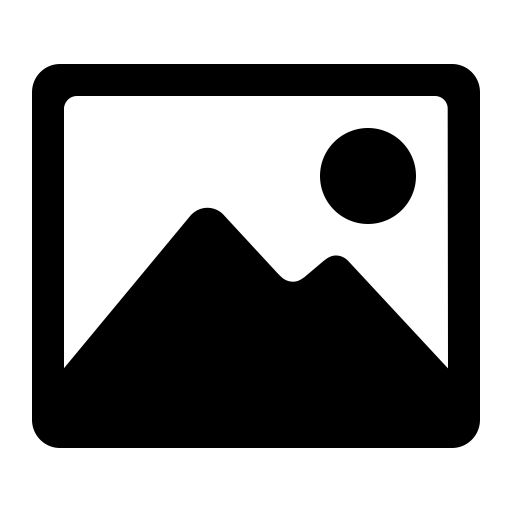
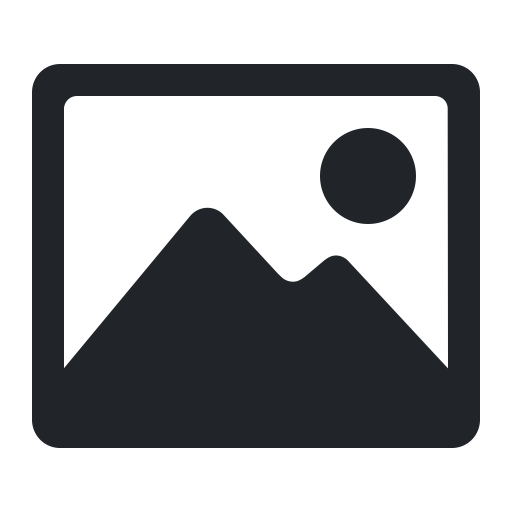
pre courses

diff --git a/education.js b/education.js
@@ -17,83 +17,90 @@ let courseWork = (
 );
 
 let current = (
-  <section>
     <div class="container">
-    <h2>Current College Classes</h2>
+    <h2>Current College Classes (Summer)</h2>
     <h4>
     Programming:<br/>
-    <span class="badge badge-light">Analysis of Algorithms</span>
-    <span class="badge badge-light">Computer Architecture</span>
-    <span class="badge badge-light">Computer Networks</span>
-    <span class="badge badge-light">Operating Systems</span>
-    <span class="badge badge-light">Website development</span>
+    <span class="badge">Software Engineering</span>
     </h4>
+    <h5>
+    <ul>
+    <li>item</li>
+    <li>item</li>
+    <li>item</li>
+    <li>item</li>
+    </ul>
+    </h5>
+    <br/><hr/><br/>
     </div>
-  </section>
 );
 
 let currentOnline = (
-  <section>
   <div class="container">
   <h2>Current Online Classes</h2>
   <h4>
   Programming:<br/>
-  <span class="badge badge-light">Web Developer Bootcamp</span>
+  </h4>
+  <h5>
+  <span class="badge">Web Developer Bootcamp</span>
+  </h5>
   <br/>
   Creativity:<br/>
-  <span class="badge badge-light">Character Art</span>
-  <span class="badge badge-light">Guitar System</span>
-  </h4>
+  <span class="badge">Character Art</span>
+  <span class="badge">Guitar System</span>
+  <br/><hr/><br/>
   </div>
-</section>
 );
 
 let past = (
-  <section>
   <div class="container">
     <h2>Past College Classes</h2>
     <h4>
     Programming:<br/>
-      <span class="badge badge-light">Webpage Authoring</span>
-      <span class="badge badge-light">Python</span>
-      <span class="badge badge-light">Java I &amp; II</span>
-      <span class="badge badge-light font-small-60">C++ I &amp; II</span>
-      <span class="badge badge-light">Perl</span>
-      <span class="badge badge-light font-small-60">Computer Architecture</span>
-      <span class="badge badge-light font-small-50">UNIX/LINUX Operating System</span>
-      <span class="badge badge-light">Programming in C</span>
-      <span class="badge badge-light font-small-60">Discrete Structures</span>
-      <span class="badge badge-light">Computing &amp; Responsibility</span>
-      <span class="badge badge-light">Data Structures &amp; Algorithms</span>
-      <span class="badge badge-light">Programming Language Concepts</span>
+      <span class="badge">Analysis of Algorithms</span>
+      <span class="badge">Computer Architecture</span>
+      <span class="badge">Computer Networks</span>
+      <span class="badge">Operating Systems</span>
+      <span class="badge">Website development</span>
+      <span class="badge">Webpage Authoring</span>
+      <span class="badge">Python</span>
+      <span class="badge">Java I &amp; II</span>
+      <span class="badge font-small-60">C++ I &amp; II</span>
+      <span class="badge">Perl</span>
+      <span class="badge font-small-60">Computer Architecture</span>
+      <span class="badge font-small-50">UNIX/LINUX Operating System</span>
+      <span class="badge">Programming in C</span>
+      <span class="badge font-small-60">Discrete Structures</span>
+      <span class="badge">Computing &amp; Responsibility</span>
+      <span class="badge">Data Structures &amp; Algorithms</span>
+      <span class="badge">Programming Language Concepts</span>
     <br/>
     Math:<br/>
-      <span class="badge badge-light font-small-50">Mathematical Analysis <br/>of Engineering Problems</span>
-      <span class="badge badge-light">Statistics for Sci/Eng</span>
-      <span class="badge badge-light font-small-60">Calculus I &amp; II &amp; III</span>
-      <span class="badge badge-light font-small-70">Differential Equations</span>
-      <span class="badge badge-light">Linear Algebra</span>
-      <span class="badge badge-light">Dynamics</span>
+      <span class="badge font-small-50">Mathematical Analysis <br/>of Engineering Problems</span>
+      <span class="badge">Statistics for Sci/Eng</span>
+      <span class="badge font-small-60">Calculus I &amp; II &amp; III</span>
+      <span class="badge font-small-70">Differential Equations</span>
+      <span class="badge">Linear Algebra</span>
+      <span class="badge">Dynamics</span>
     <br/>
     Science/Physics:<br/>
-      <span class="badge badge-light font-small-50">Physics for Engineers <br/>and Scientists I &amp; II &amp; III)</span>
-      <span class="badge badge-light">Chemistry</span>
-      <span class="badge badge-light">Astronomy</span>
-      <span class="badge badge-light">Materials Science</span>
+      <span class="badge font-small-50">Physics for Engineers <br/>and Scientists I &amp; II &amp; III)</span>
+      <span class="badge">Chemistry</span>
+      <span class="badge">Astronomy</span>
+      <span class="badge">Materials Science</span>
     </h4>
+    <br/><hr/><br/>
     </div>
-  </section>
 )
 
 let pastOnline = (
-  <section>
   <div class="container">
   <h2>Past Online Classes</h2>
   <h4>
-    <span class="badge badge-light">Responsive Web Design</span>
+    <span class="badge">Responsive Web Design</span>
   </h4>
+  <br/>
   </div>
-</section>
 )
 
 
@@ -102,11 +109,13 @@ class Education extends React.Component {
   render() {
     return <div>
     {courseWork}
+    <section>
     {current}
     {currentOnline}
     {past}
     {pastOnline}
-    </div>;
+    </section>
+    </div>
   }
 }
 

diff --git a/home.js b/home.js
@@ -28,11 +28,11 @@ let hello = (
       I have many plans for future apps and websites that I look forward to creating.
       I invite you to learn more about my journey through this very website. </p>
       <h3>
-      <span class="badge badge-light"><FontAwesome name="code"/>Programmer</span>
-      <span class="badge badge-light"><FontAwesome name="music"/> Musician</span>
+      <span class="badge"><FontAwesome name="code"/> Programmer</span>
+      <span class="badge"><FontAwesome name="music"/> Musician</span>
       <br/>
-      <span class="badge badge-light"><FontAwesome name="pencil"/>Writer</span>
-      <span class="badge badge-light"><FontAwesome name="paint-brush"/>Artist</span>
+      <span class="badge"><FontAwesome name="pencil"/> Writer</span>
+      <span class="badge"><FontAwesome name="paint-brush"/> Artist</span>
       </h3>
     </div>
     </div>
@@ -40,38 +40,54 @@ let hello = (
   </section>
 );
 
+let old = [
+  <img class="wrap-left" src={website} alt="megan_paffrath"/>,
+  <h4><FontAwesome name="globe"/> This Website</h4>,
+  <img class="wrap-left" src={photoPhoto} alt="megan_paffrath"/>,
+  <img class="wrap-left" src={simon} alt="megan_paffrath"/>
+]
+
 let projects = (
   <section class="projects">
   <div class="container">
   <h1 id="projects">Projects</h1>
-  <div>
-  <img class="wrap-left" src={website} alt="megan_paffrath"/>
+
+  <div class="project">
   <h4 id="this-website">This Website</h4>
+  <p class="tech"><FontAwesome name="arrow-right"/> React, JavaScript, HTML, CSS</p>
   <p>This passion project of mine is a result of my continuous efforts to learn new web development skills. It is an ever-evolving project in which changes are constantly being made.</p>
-  <center><p><FontAwesome name="arrow-right"/> <b>Technologies: </b>React, JavaScript, HTML, CSS</p></center>
+  <p>This passion project of mine is a result of my continuous efforts to learn new web development skills. It is an ever-evolving project in which changes are constantly being made.</p>
+  <center><button type="button" class="btn btn-outline-secondary"> <FontAwesome name="github"/> View on GitHub</button></center>
   </div>
 
-  <div>
-  <img class="wrap-left" src={photoPhoto} alt="megan_paffrath"/>
+  <hr/>
+
+  <div class="project">
+
   <h4 id="photo-re-namer">Photo Re-namer</h4>
+  <p class="tech"><FontAwesome name="arrow-right"/> Python</p>
   <p>This program utilizes exif data to figure out when photos and videos were taken.
   Using that data, it changes the file name of multiple photos and videos at a time to
   contain the date and time the photos and videos were taken.
   This program works for jpg, mp4, and MOV files.
   <a href="https://github.com/MeganPaffrath/photoRenamer" target="\_blank">See program on github!</a></p>
-  <center><p><FontAwesome name="arrow-right"/> <b>Technologies: </b>Python</p></center>
+  <center><button type="button" class="btn btn-outline-secondary"> <FontAwesome name="github"/> View on GitHub</button></center>
+
   </div>
 
-  <div>
-  <img class="wrap-left" src={simon} alt="megan_paffrath"/>
+  <hr/>
+
+  <div class="project">
+
   <h4 id="simon-memory-game">Simon Memory Game</h4>
+  <p class="tech"><FontAwesome name="arrow-right"/> JavaScript, HTML, CSS</p>
   <p>The computer creates a pattern that the user must guess correctly
   to move forward. Every time the user guesses correctly, the computer
   adds one more event to the pattern. The pattern gets progressively
   longer until the player fails to guess the pattern properly.
   This game was created with the help of an <a href="https://www.udemy.com/course/the-complete-web-development-bootcamp/" target="\_blank">online course</a>.
   Also, this game is not yet available for mobile. <a href="https://meganpaffrath.github.io/simonGame/" target="\_blank">Play Now on Computer!</a></p>
-  <center><p><FontAwesome name="arrow-right"/> <b>Technologies: </b>JavaScript, HTML, CSS</p></center>
+  <center><button type="button" class="btn btn-outline-secondary"> <FontAwesome name="github"/> View on GitHub</button></center>
   </div>
   </div>
   </section>

diff --git a/styles.css b/styles.css
@@ -3,10 +3,12 @@
    --hdr-ftr: #416165;
    --bk-one: #FEFEEA;
    --bk-two: #F1F1DC;
-   --emph-one: #70877F; /* h1 */
-   --emph-two: #4F5D75; /* h4 */
+   --emph-one: #70877F; /* h1 70877F*/
+   --emph-two: #817F95; /* h4 4F5D75*/
    --black: #020202;
    --white: #ffffff;
+   --nav-txt: #F1F1DC;
+   --links: #235789;
  }
 
 
@@ -33,6 +35,7 @@ nav, main, footer {
   flex-shrink: 0; /* prevents items from shrinking */
 }
 
+/* Navbar */
 body nav {
   background-color: var(--hdr-ftr);
   /* padding: 5px 20% !important; */
@@ -44,7 +47,11 @@ body nav {
 }
 
 .navbar-brand {
-  color: red;
+  color: var(--nav-txt) !important;
+}
+
+.nav-link {
+  color: var(--nav-txt) !important;
 }
 
 .container {
@@ -70,13 +77,27 @@ body h1,body h2 {
   /* text-align: center; */
 }
 
+body h1 {
+  padding: 5px 0 15px 0;
+}
+
 body h4 {
+  padding: 0;
   color: var(--emph-two);
+}
+
+body h5 {
+  color: green;
 }
 
 body p {
   color: var(--black);
 }
+
+a {
+  color: var(--links) !important;
+}
+
 /* sections */
 section {
   padding: 30px 0;
@@ -99,9 +120,13 @@ section:nth-child(even) {
   }
 } */
 
+
 /* Icons About Me */
 .badge {
   margin: 2px;
+  background-color: var(--emph-one);
+  color: var(--nav-txt);
+  font-size:
 }
 
 .center {
@@ -110,12 +135,13 @@ section:nth-child(even) {
   align-items: center;
 }
 
+/* Footer */
 footer a {
-  color: #fff !important;
+  color: var(--nav-txt);
   margin: 0 10px;
   text-align: center;
 }
 
 footer p {
-  color: #fff;
+  color: var(--nav-txt);
 }

diff --git a/home.css b/home.css
@@ -20,8 +20,20 @@
 
 }
 
+.project {
+  padding-bottom: 20px;
+}
+
 .wrap-left {
   float: left;
   width: 100px;
   padding-right: 20px;
+}
+
+.tech {
+  /* padding-left: 50px; */
+}
+
+.view-proj {
+  align-items: center;
 }
